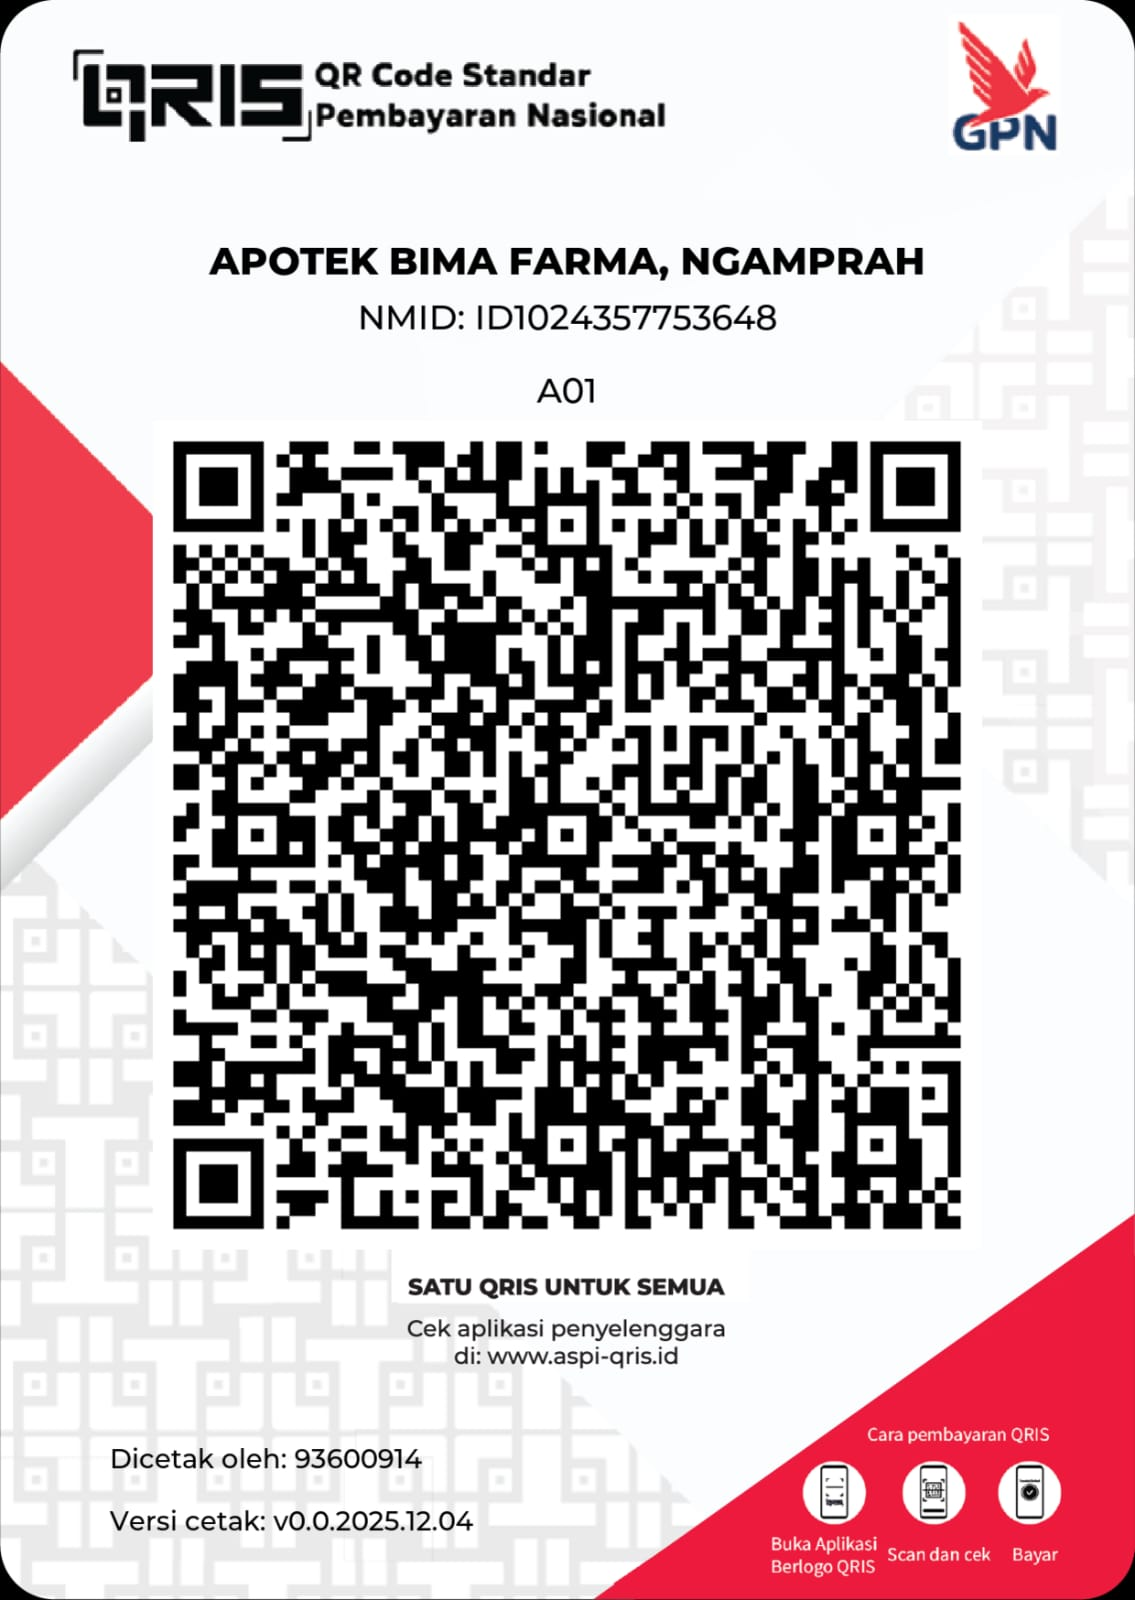
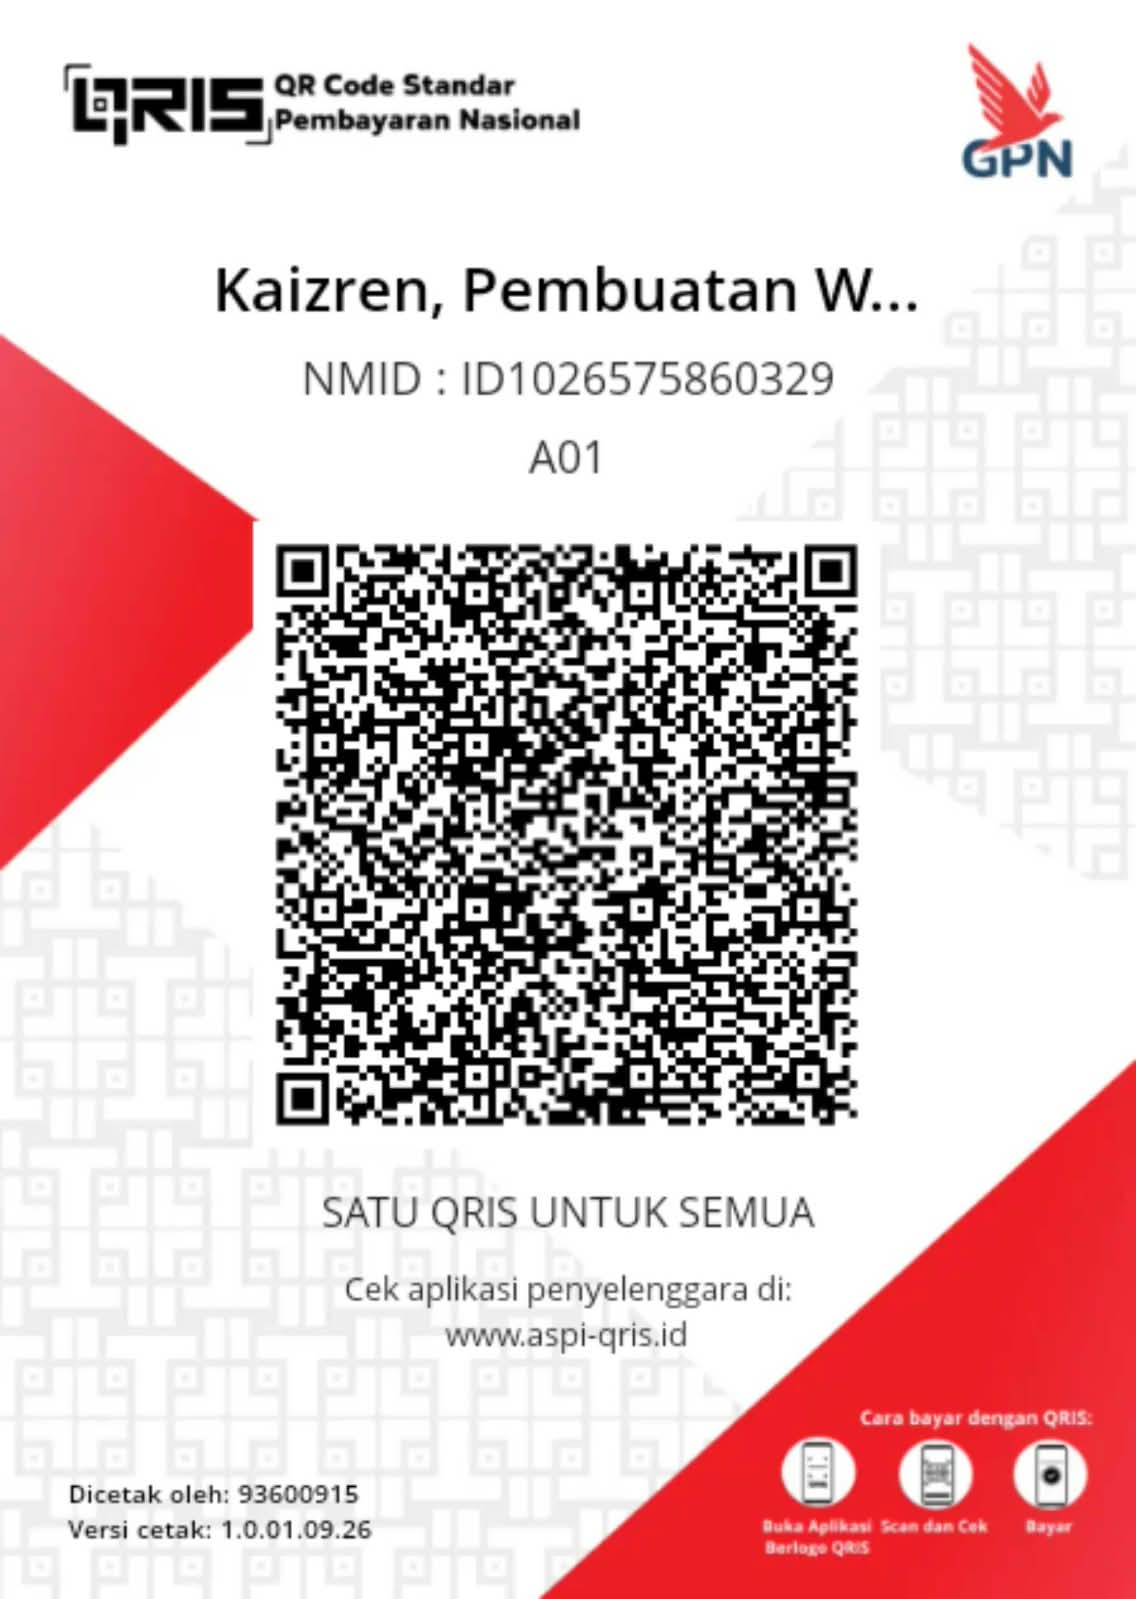
feat: pasang QRIS DANA (Kaizren) untuk uji coba transaksi pembayaran

diff --git a/backend/app/Services/QrisService.php b/backend/app/Services/QrisService.php
@@ -4,17 +4,16 @@ namespace App\Services;
 
 class QrisService
 {
-    // String QRIS Statis Asli Apotek Bima Farma (dari Gopay / GoBiz)
-    public const STATIC_QRIS = '00020101021126610014COM.GO-JEK.WWW01189360091433873061180210G3873061180303UKE51440014ID.CO.QRIS.WWW0215ID10243577536480303UKE5204591253033605802ID5925APOTEK BIMA FARMA, NGAMPR6013BANDUNG BARAT61054055262070703A016304ABD9';
+    // String QRIS DANA Uji Coba: Kaizren, Pembuatan Web (bisa dioverride lewat .env QRIS_STRING)
+    public const STATIC_QRIS = '00020101021126570011ID.DANA.WWW011893600915303433697102090343369710303UMI51440014ID.CO.QRIS.WWW0215ID10265758603290303UMI5204899953033605802ID5922Kaizren, Pembuatan Web6015Kab. Bandung Ba6105405526304EDBC';
 
     /**
      * Ubah QRIS Statis menjadi QRIS Dinamis dengan nominal tagihan terkunci (Standar EMVCo Bank Indonesia).
      */
-    public static function generateDynamic(float|int $amount, string $staticQris = self::STATIC_QRIS): string
+    public static function generateDynamic(float|int $amount, ?string $staticQris = null): string
     {
-        // 1. Ubah 010211 (statis) menjadi 010212 (dinamis)
-        $qris = str_replace('010211', '010212', $staticQris);
-
+        $baseQris = $staticQris ?: env('QRIS_STRING', self::STATIC_QRIS);
+        $qris = str_replace('010211', '010212', $baseQris);
         // 2. Buat tag 54 (nominal transaksi)
         $amountStr = (string) (int) $amount;
         $amountLength = str_pad((string) strlen($amountStr), 2, '0', STR_PAD_LEFT);
